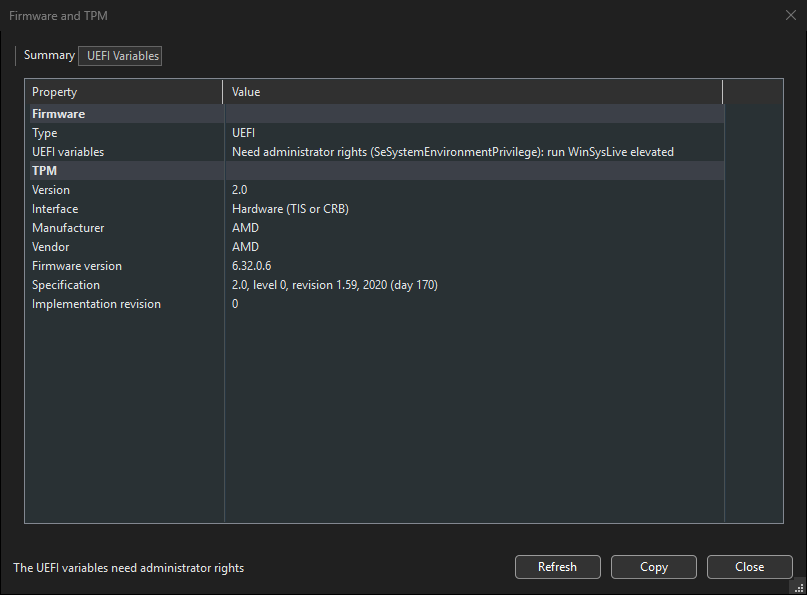
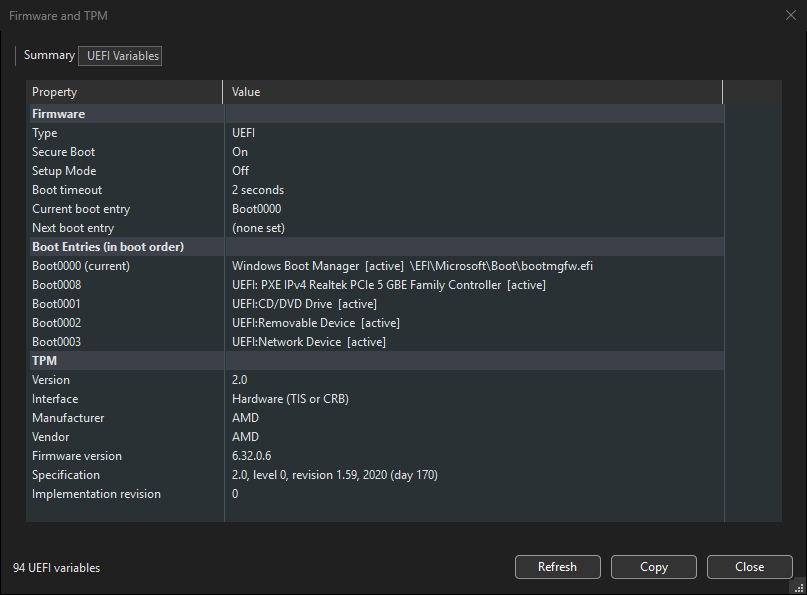
Documentation: screenshots of the elevated-only tabs and dialogs
RPC/ALPC, Zombie Processes, Pool Tags and Disk, the RAM dialog, and the
Firmware and TPM dialog elevated (its summary and UEFI variables).

diff --git a/docs/Documentation.md b/docs/Documentation.md
@@ -255,12 +255,16 @@ Which processes talk to which (elevated): ALPC messages between client and serve
 interface (named where known), endpoint and protocol, with their counts and rates. Only traffic seen since the tab
 opened shows. Double-click goes to the server or the client.
 
+![The RPC/ALPC tab, filtered to RPC calls](images/rpc-alpc.png)
+
 ## Zombie Processes
 
 Processes that have exited but are kept in memory because other processes still hold handles to them, with each
 holder process, its handle count and access. **Show All Handles** lists every handle keeping a zombie, with **Close
 Selected** and **Close All**; **Close Handles** and **Close All Handles** in the context menu close them directly.
 Scanned every 5 seconds while the tab is active.
+
+![The Zombie Processes tab](images/zombies.png)
 
 ## Object Types
 
@@ -283,10 +287,14 @@ The kernel pools' use by tag (elevated): paged and non-paged allocations, frees,
 with each tag's driver and description (from the Debugging Tools' `pooltag.txt` if installed, else the copy built
 into WinSysLive). Changed values are colored.
 
+![The Pool Tags tab](images/pool-tags.png)
+
 ## Disk
 
 File I/O per process and file (elevated): reads and writes, bytes and operations, and their rates. Files idle for a
 minute drop off. **Go to Process**, **File Properties** and **Open File Location** in the context menu.
+
+![The Disk tab, filtered to files under C:\Windows](images/disk.png)
 
 ## History
 
@@ -325,7 +333,11 @@ contain the text. Double-click a result to go to its process; **Properties** ope
 
 ![The Firmware and TPM dialog](images/firmware.png)
 
+![The Firmware and TPM dialog's UEFI variables](images/uefi-variables.png)
+
 ![The Page Files dialog](images/page-files.png)
+
+![The RAM dialog: physical memory by use and list](images/ram.png)
 
 ## Computer menu
 
